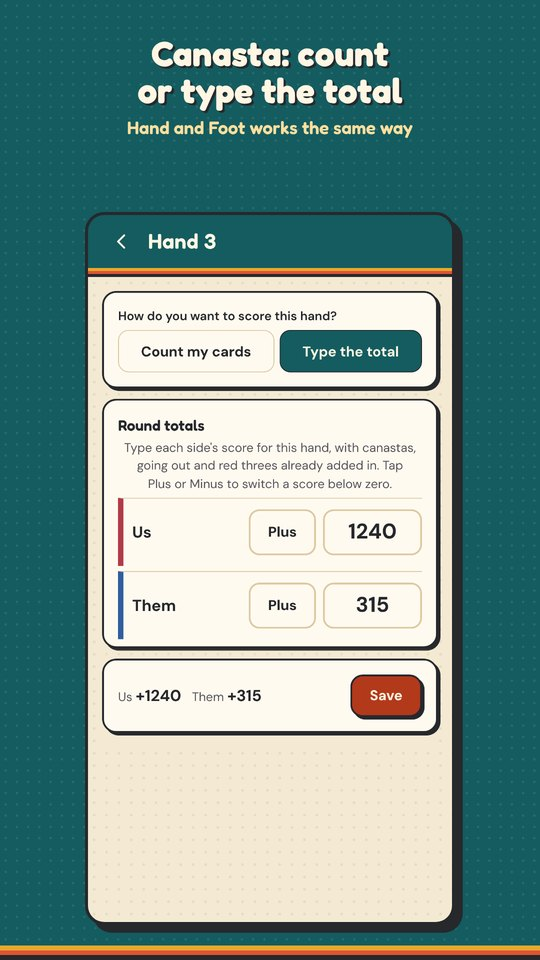
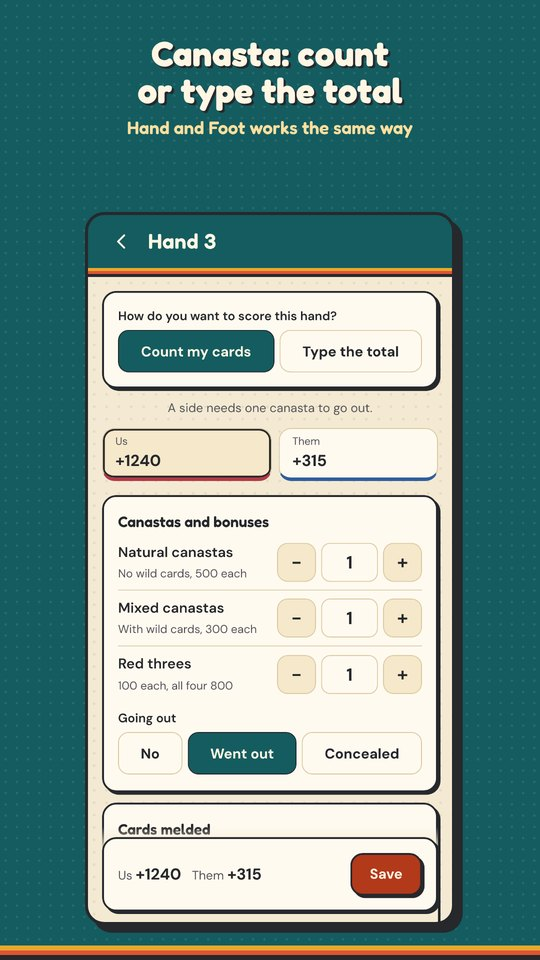
Card Night website: fresh-eyes round 4 polish (LAUNCHED stays false)
Gallery matches the new store set (Canasta counted card by card, soft fade where a list
continues off screen). About section no longer repeats the footer sentence. Demo caption
reads "The 25 second demo" while playing or paused. Share description starts with
"Coming soon." before launch. Wrapcheck 11 pages x 6 widths: 0.

Claude-Session: https://claude.ai/code/session_01WhXyE7CDQ5F6zYLwjepsDo

Changed region(s): [[0.1778, 0.3438, 0.8296, 0.9688]]

diff --git a/index.html b/index.html
@@ -4,20 +4,20 @@
 <meta charset="utf-8">
 <meta name="viewport" content="width=device-width, initial-scale=1, viewport-fit=cover">
 <title>Card Night: Score Keeper, the scorepad that knows the rules</title>
-<meta name="description" content="Keep score for Hand and Foot, Canasta, Spades, Gin Rummy, 500 Rum, Mexican Train, Cribbage and Euchre. Card Night does the math. No ads, no subscription, pay once. Free printable score sheets too.">
+<meta name="description" content="Coming soon. Keep score for Hand and Foot, Canasta, Spades, Gin Rummy, 500 Rum, Mexican Train, Cribbage and Euchre. Card Night does the math. No ads, no subscription, pay once. Free printable score sheets too.">
 <link rel="canonical" href="https://cardnight.digirunestudios.com/">
 <meta property="og:type" content="website">
 <meta property="og:site_name" content="Card Night: Score Keeper">
 <meta property="og:url" content="https://cardnight.digirunestudios.com/">
 <meta property="og:title" content="Card Night: Score Keeper, the scorepad that knows the rules">
-<meta property="og:description" content="Keep score for Hand and Foot, Canasta, Spades, Gin Rummy, 500 Rum, Mexican Train, Cribbage and Euchre. Card Night does the math. No ads, no subscription, pay once. Free printable score sheets too.">
+<meta property="og:description" content="Coming soon. Keep score for Hand and Foot, Canasta, Spades, Gin Rummy, 500 Rum, Mexican Train, Cribbage and Euchre. Card Night does the math. No ads, no subscription, pay once. Free printable score sheets too.">
 <meta property="og:image" content="https://cardnight.digirunestudios.com/site/img/og/card-night-1200x630.jpg">
 <meta property="og:image:width" content="1200">
 <meta property="og:image:height" content="630">
 <meta property="og:image:alt" content="Card Night: The scorepad that knows the rules">
 <meta name="twitter:card" content="summary_large_image">
 <meta name="twitter:title" content="Card Night: Score Keeper, the scorepad that knows the rules">
-<meta name="twitter:description" content="Keep score for Hand and Foot, Canasta, Spades, Gin Rummy, 500 Rum, Mexican Train, Cribbage and Euchre. Card Night does the math. No ads, no subscription, pay once. Free printable score sheets too.">
+<meta name="twitter:description" content="Coming soon. Keep score for Hand and Foot, Canasta, Spades, Gin Rummy, 500 Rum, Mexican Train, Cribbage and Euchre. Card Night does the math. No ads, no subscription, pay once. Free printable score sheets too.">
 <meta name="twitter:image" content="https://cardnight.digirunestudios.com/site/img/og/card-night-1200x630.jpg">
 <meta name="theme-color" content="#145c60">
 <link rel="icon" type="image/png" sizes="192x192" href="icons/icon-192.png">
@@ -48,7 +48,7 @@
         <source src="site/video/card-night-demo.mp4" type="video/mp4">
       </video>
     </div>
-    <figcaption><button type="button" class="demo-toggle" aria-label="Pause the demo" hidden><span aria-hidden="true"></span></button><span class="demo-cap">Watch the 25 second demo</span></figcaption>
+    <figcaption><button type="button" class="demo-toggle" aria-label="Pause the demo" hidden><span aria-hidden="true"></span></button><span class="demo-cap">The 25 second demo</span></figcaption>
     <ol id="demo-steps" class="sr-only">
       <li>Pick a game. 8 classics built in.</li>
       <li>Add your players and teams.</li>
@@ -84,7 +84,7 @@
   <div class="gallery" tabindex="0" aria-label="App screens, scroll sideways">
     <figure><img src="site/img/gallery/01-home.jpg" width="540" height="960" loading="lazy" alt="The Card Night home screen with all 8 games: Hand and Foot, Canasta, Spades, Gin Rummy, 500 Rum, Mexican Train, Cribbage and Euchre."><figcaption>The scorepad that knows the rules</figcaption></figure>
     <figure><img src="site/img/gallery/02-handfoot.jpg" width="540" height="960" loading="lazy" alt="A Hand and Foot game after three rounds, with each round and the running totals."><figcaption>Hand&nbsp;and&nbsp;Foot, scored for you</figcaption></figure>
-    <figure><img src="site/img/gallery/03-canasta.jpg" width="540" height="960" loading="lazy" alt="Scoring a Canasta hand by typing each side's total, with the hand's result shown before saving."><figcaption>Canasta: count or type the total</figcaption></figure>
+    <figure><img src="site/img/gallery/03-canasta.jpg" width="540" height="960" loading="lazy" alt="Scoring a Canasta hand card by card: canastas, red threes, going out and the cards melded, with Type the total one tap away."><figcaption>Canasta: count or type the total</figcaption></figure>
     <figure><img src="site/img/gallery/04-spades.jpg" width="540" height="960" loading="lazy" alt="A Spades game with team totals, bags and the hand by hand history."><figcaption>Spades bids and bags, handled</figcaption></figure>
     <figure><img src="site/img/gallery/05-cribbage.jpg" width="540" height="960" loading="lazy" alt="The Cribbage peg board with tap to peg buttons for each player."><figcaption>A cribbage board in your pocket</figcaption></figure>
     <figure><img src="site/img/gallery/06-mextrain.jpg" width="540" height="960" loading="lazy" alt="Mexican Train with 8 players after five rounds, lowest total wins."><figcaption>Up to 8 players at one table</figcaption></figure>
@@ -164,7 +164,7 @@
 
 <section id="studio" aria-labelledby="studio-title"><div class="wrap">
   <h2 id="studio-title">About DigiRune&nbsp;Studios</h2>
-  <p class="intro">Card&nbsp;Night is made by DigiRune&nbsp;Studios, a small veteran-&#8288;owned studio in Beaufort, South&nbsp;Carolina. <a href="https://digirunestudios.com/">See more from DigiRune&nbsp;Studios</a>.</p>
+  <p class="intro">A small veteran-&#8288;owned studio making apps for the games people play around a table. <a href="https://digirunestudios.com/">See more from DigiRune&nbsp;Studios</a>.</p>
 </div></section>
 </main>
 <footer><div class="wrap">
